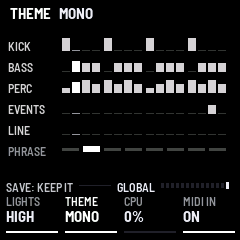
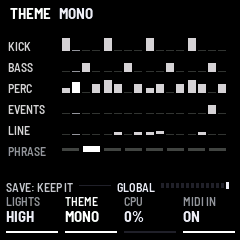
MORPH (BREAK's K4): the kit changes on its own now and then, at a drop or a long groove's 32-bar block (settings RHT8, a 7's taken)

diff --git a/app/dsp/psy.c b/app/dsp/psy.c
@@ -159,6 +159,7 @@ static const ps_param_t PAR[P_NPARAMS] = {
     {"SEND", 0, 100, 0}, {"SEND", 0, 100, 50},
     {"DECAY", 0, 100, 50}, {"DECAY", 0, 100, 50}, {"OPEN", 0, 100, 50}, {"DRIVE", 0, 100, 0},
     {"PITCH", -12, 12, 0}, {"SPREAD", 0, 100, 50}, {"MOTION", 0, 100, 50}, {"DEPTH", 0, 100, 50},
+    {"MORPH", 0, 100, 40},
 };
 static const uint8_t BREAK_BARS[5] = {0, 4, 8, 16, 32};   /* P_BREAK_LEN (0: the world's) */
 static const uint8_t BUILD_BARS[3] = {2, 4, 8};           /* P_BUILD_LEN */
@@ -529,10 +530,73 @@ static uint32_t kit_heard(void)        /* the parts heard now, 1 << PART_* (and 
     return m;
 }
 
+static void kit_forward(int n)         /* n parts or so, or the groove, another type: the kit before kept (forward) */
+{
+    uint32_t heard, pick = 0, p;
+    heard = kit_heard();
+    if (!heard)
+        heard = (1u << NPART) - 1u;
+    if (s.kit_bars)                    /* (a shape still over AUTO's: not again) */
+        heard &= ~(1u << KIT_GROOVE);
+    for (; n > 0; n--) {               /* one at a time: from the heard not changed last, else the heard */
+        uint32_t from = heard & ~pick & ~(uint32_t)kit.last, c = 0, k;
+        if (!from)
+            from = heard & ~pick;
+        if (!from)
+            break;
+        for (p = 0; p <= KIT_GROOVE; p++)
+            c += from >> p & 1u;
+        k = rnd() % c;
+        for (p = 0; p <= KIT_GROOVE; p++)
+            if ((from >> p & 1u) && k-- == 0u)
+                break;
+        pick |= 1u << p;
+    }
+    for (p = 0; p < NPART; p++)        /* the kit as it was, kept for going back */
+        kit.hist[kit.top][p] = s.type[p];
+    kit.top = (uint8_t)((kit.top + 1u) % KIT_HIST);
+    if (kit.depth < KIT_HIST)
+        kit.depth++;
+    for (p = 0; p < NPART; p++)
+        if (pick >> p & 1u)
+            s.type[p] = (uint8_t)((s.type[p] + 1u + rnd() % (ntypes((int)p) - 1u)) % ntypes((int)p));
+    if (pick >> KIT_GROOVE & 1u) {     /* the groove: another shape than this bar's, four bars */
+        static const uint8_t SHAPE[3] = {0, 1, 3};
+        uint32_t now = (s.tick / TPBAR - s.origin) % 8u == s.trip_at ? 2u : s.pat, j = rnd() % 3u;
+        if (SHAPE[j] == now)
+            j = (j + 1u + rnd() % 2u) % 3u;
+        s.kit_pat = SHAPE[j];
+        s.kit_bars = 4;
+    }
+    kit.last = (uint8_t)pick;
+    if (pick) {
+        ps_ui.kit_parts = (uint8_t)pick;
+        ps_ui.kits++;
+    }
+    ps_ui.kit_depth = kit.depth;
+}
+
+/* MORPH: now and then, on its own, the kit forward (a drop's; a 32-bar block's in a long groove, half as likely): more
+ * likely and more parts the higher, and the longer since the last the likelier (half again each chance gone by) */
+static uint8_t morph_wait;             /* the chances gone by since the kit last changed on its own */
+static void kit_morph(float chance)
+{
+    float m = (float)par[P_MORPH] / 100.0f;
+    if (m <= 0.0f)
+        return;
+    if ((float)(rnd() % 1000u) >= 1000.0f * m * chance * (1.0f + 0.5f * (float)morph_wait)) {
+        if (morph_wait < 255u)
+            morph_wait++;
+        return;
+    }
+    morph_wait = 0;
+    kit_forward(1 + ((float)(rnd() % 100u) < 60.0f * m) + ((float)(rnd() % 100u) < 25.0f * m));
+}
+
 static void kit_step(void)
 {
     int net = (int)(kit_fwd - kit.fwd_seen) - (int)(kit_back - kit.back_seen);
-    uint32_t heard, pick = 0, p;
+    uint32_t pick = 0, p;
     int n;
     kit.fwd_seen = kit_fwd;
     kit.back_seen = kit_back;
@@ -562,42 +626,7 @@ static void kit_step(void)
         kit.last = (uint8_t)pick;
     } else if (net > 0) {
         n = net > 1 ? (net > 3 ? 3 : net) : rnd() % 100u < 30u ? 2 : 1;
-        heard = kit_heard();
-        if (!heard)
-            heard = (1u << NPART) - 1u;
-        if (s.kit_bars)                /* (a shape still over AUTO's: not again) */
-            heard &= ~(1u << KIT_GROOVE);
-        for (; n > 0; n--) {           /* one at a time: from the heard not changed last, else the heard */
-            uint32_t from = heard & ~pick & ~(uint32_t)kit.last, c = 0, k;
-            if (!from)
-                from = heard & ~pick;
-            if (!from)
-                break;
-            for (p = 0; p <= KIT_GROOVE; p++)
-                c += from >> p & 1u;
-            k = rnd() % c;
-            for (p = 0; p <= KIT_GROOVE; p++)
-                if ((from >> p & 1u) && k-- == 0u)
-                    break;
-            pick |= 1u << p;
-        }
-        for (p = 0; p < NPART; p++)    /* the kit as it was, kept for going back */
-            kit.hist[kit.top][p] = s.type[p];
-        kit.top = (uint8_t)((kit.top + 1u) % KIT_HIST);
-        if (kit.depth < KIT_HIST)
-            kit.depth++;
-        for (p = 0; p < NPART; p++)
-            if (pick >> p & 1u)
-                s.type[p] = (uint8_t)((s.type[p] + 1u + rnd() % (ntypes((int)p) - 1u)) % ntypes((int)p));
-        if (pick >> KIT_GROOVE & 1u) { /* the groove: another shape than this bar's, four bars */
-            static const uint8_t SHAPE[3] = {0, 1, 3};
-            uint32_t now = (s.tick / TPBAR - s.origin) % 8u == s.trip_at ? 2u : s.pat, j = rnd() % 3u;
-            if (SHAPE[j] == now)
-                j = (j + 1u + rnd() % 2u) % 3u;
-            s.kit_pat = SHAPE[j];
-            s.kit_bars = 4;
-        }
-        kit.last = (uint8_t)pick;
+        kit_forward(n);
     }
     if (pick) {
         ps_ui.kit_parts = (uint8_t)pick;
@@ -882,6 +911,7 @@ void ps_init(void)
 {
     int k;
     want_world = world = 2;            /* COLD SIGNAL */
+    morph_wait = 0;
     want_play = playing = 1;
     for (k = 0; k < P_NPARAMS; k++)
         par[k] = PAR[k].def;
@@ -1223,6 +1253,7 @@ static void drop(uint32_t bar)         /* on this bar's first tick: the groove a
     }
     s.out = 0;
     ps_ui.sitting_out = 0;
+    kit_morph(1.0f);                   /* (MORPH: now and then the kit too) */
     s.x_t = 0.0f;                      /* the crash */
     ps_ui.hits[HIT_PERC]++;
 }
@@ -1252,6 +1283,8 @@ static void section_bar(const world_t *w, uint32_t bar)   /* a bar begins: the c
                              : (uint32_t)clampi(d < 0 ? w->brk / 2 : d > 0 ? w->brk * 2 : w->brk, 4, 32);
             enter(SEC_BREAK, len);
         }
+        if (s.sec == SEC_MAIN && rb && rb % 32u == 0u)   /* a long groove: MORPH now and then, half as likely */
+            kit_morph(0.5f);
     } else if (s.sec == SEC_BREAK) {
         if (build || (s.sec_len && s.sec_bar >= s.sec_len))   /* (a break cued in a break: nothing) */
             enter_build(w);

diff --git a/app/app.c b/app/app.c
@@ -15,7 +15,8 @@
  *   2 GROOVE (HOME again)    K1..K4 Tempo (the world's, moved), Root, Fills (how often), Sit out (how often a part
  *                            rests a phrase)
  *   3 BREAK (SEQ)            the breaks: K1..K3 Breaks (how often one comes on its own; 0: only when cued), Length (its
- *                            bars: the world's, 4..32), Gap (bars after a drop before one comes on its own)
+ *                            bars: the world's, 4..32), Gap (bars after a drop before one comes on its own); K4 Morph
+ *                            (how often the kit changes on its own: at a drop, or a long groove's 32-bar block)
  *   4 BUILD (SEQ again)      the builds: K1 Type (AUTO, or one held), K2 Ending (their last bar's: AUTO, or one held),
  *                            K3 Length (2, 4, 8 bars)
  *   5 KICK (SEL)             K1..K4 Tune, Drive, Punch, Decay (its body: short and tight, or long and full)
@@ -61,9 +62,11 @@
 #include "logo.h"
 #include "face.h"
 
-#define SET_MAGIC 0x37544852u            /* "RHT7": the settings record (2: the atmos's four; 3: the line's, 8 worlds;
+#define SET_MAGIC 0x38544852u            /* "RHT8": the settings record (2: the atmos's four; 3: the line's, 8 worlds;
                                           * 4: PHASE's four, the breaks' switch gone into BREAKS; 5: MIX's TOP; 6: the
-                                          * percussion's and the line's sends, TOP gone; 7: the sounds' new eight) */
+                                          * percussion's and the line's sends, TOP gone; 7: the sounds' new eight; 8:
+                                          * BREAK's MORPH, the last: a 7's taken, MORPH at its default) */
+#define SET_MAGIC7 0x37544852u           /* "RHT7" */
 typedef struct {
     uint32_t magic;
     uint8_t world;
@@ -140,8 +143,17 @@ void app_init(void)
 {
     int p, ok;
     ps_init();
-    ok = plat_store_load(OBJ_SETTINGS, &set, sizeof set) == (int)sizeof set && set.magic == SET_MAGIC &&
-         set.world < PS_NWORLD && set.lights <= 2u && set.theme < NTHEME &&
+    {   /* (a 7's: one parameter fewer at the end, MORPH) */
+        int n = plat_store_load(OBJ_SETTINGS, &set, sizeof set);
+        ok = (n == (int)sizeof set && set.magic == SET_MAGIC) ||
+             (n == (int)(((uint32_t)((char *)&set.par[P_NPARAMS - 1] - (char *)&set) + 3u) & ~3u) &&
+              set.magic == SET_MAGIC7);
+        if (ok && set.magic == SET_MAGIC7) {
+            set.magic = SET_MAGIC;
+            set.par[P_MORPH] = ps_param(P_MORPH)->def;
+        }
+    }
+    ok = ok && set.world < PS_NWORLD && set.lights <= 2u && set.theme < NTHEME &&
          (set.flags & ~SET_MIDI) == 0u;
     for (p = 0; ok && p < P_NPARAMS; p++)
         ok = set.par[p] >= ps_param(p)->lo && set.par[p] <= ps_param(p)->hi;
@@ -184,7 +196,7 @@ static int page_par(int p, int k)
     static const int8_t PAR[NPAGE][4] = {
         {P_ENERGY, P_DETAIL, P_DARK, P_DRIFT},
         {P_TEMPO, P_ROOT, P_FILLS, P_SITOUT},
-        {P_BREAKS, P_BREAK_LEN, P_GAP, -1},              /* BREAK: the breaks */
+        {P_BREAKS, P_BREAK_LEN, P_GAP, P_MORPH},         /* BREAK: the breaks, and the kit changing on its own */
         {-1, -1, P_BUILD_LEN, -1},                       /* BUILD: K1 the builds' type, K2 their ending, K3 their bars */
         {P_KICK_TUNE, P_KICK_DRIVE, P_KICK_PUNCH, P_KICK_DECAY},   /* (the levels and the sends: MIX's) */
         {P_BASS_BITE, P_BASS_DECAY, P_BASS_LEN, P_BASS_DRIVE},   /* (as LINE's) */

diff --git a/app/dsp/psy.h b/app/dsp/psy.h
@@ -47,6 +47,8 @@ enum { P_ENERGY, P_DETAIL, P_DARK, P_DRIFT,                  /* MAIN: the macros
                                                               * once), the open hat's length, the line driven (0: clean) */
        P_EV_PITCH, P_EV_SPREAD, P_ATMOS_MOTION, P_ATMOS_DEPTH,   /* the events' semitones (-12..12) and how far apart
                                                               * left and right; the atmos's sway, how fast and how deep */
+       P_MORPH,                                              /* BREAK's K4: how often the kit changes on its own (a
+                                                              * drop's, a long groove's 32-bar block's) */
        P_NPARAMS };
 typedef struct {
     const char *name;

diff --git a/app/docs/MANUAL.md b/app/docs/MANUAL.md
@@ -161,7 +161,8 @@ world is as it is.
   moves by itself, no break comes on its own, and those lengths are exact; higher, the bass changes its type at more
   of the drops. 50.
 
-ALGORITHM turns the kit. What it changed shows in the header for a moment, each type in the colour of its part.
+ALGORITHM turns the kit; MORPH, on BREAK, also turns it now and then by itself. What changed shows in the header for a
+moment, each type in the colour of its part.
 
 ![The header after a kit change: KIT GLASS K-B-B-B, the line's new type and the bass's new shape](img/screen-kit.png "A kit, taken")
 
@@ -188,9 +189,10 @@ K-B-B-B holds the roll; GALLOP holds a gallop; OFFBEAT holds an offbeat. The new
 
 ### 5.3 BREAK
 
-![The BREAK page: Breaks 50, Length WORLD, Gap 64](img/screen-phase.png "BREAK")
+![The BREAK page: Breaks 50, Length WORLD, Gap 64, Morph 40](img/screen-phase.png "BREAK")
 
-SEQ. The breaks: how the music moves through breaks, builds and drops by itself. Press SAVE and ARP to call them yourself (see 8.
+SEQ. The breaks: how the music moves through breaks, builds and drops by itself, and how its sounds change by
+themselves. Press SAVE and ARP to call them yourself (see 8.
 Sections).
 
 - BREAKS: how often a break comes on its own. At 0 it says CUED: a break comes only when you call it. Higher is more
@@ -199,6 +201,9 @@ Sections).
   Now and then a break is half or twice as long, more often with DRIFT higher. WORLD.
 - GAP: the fewest bars between a drop and the next break that comes on its own: 32, 64, 96 or 128. After some drops it
   is one step shorter or longer, more often with DRIFT higher. 64.
+- MORPH: how often the kit changes by itself, as if you turned ALGORITHM on MAIN: one part or a few take another type.
+  It can happen at a drop, and, in a groove that runs long, every 32 bars, half as often. Higher is more often and more
+  parts at once; the header says what changed. At 0 the kit changes only when you turn ALGORITHM. 40.
 
 ### 5.4 BUILD
 
